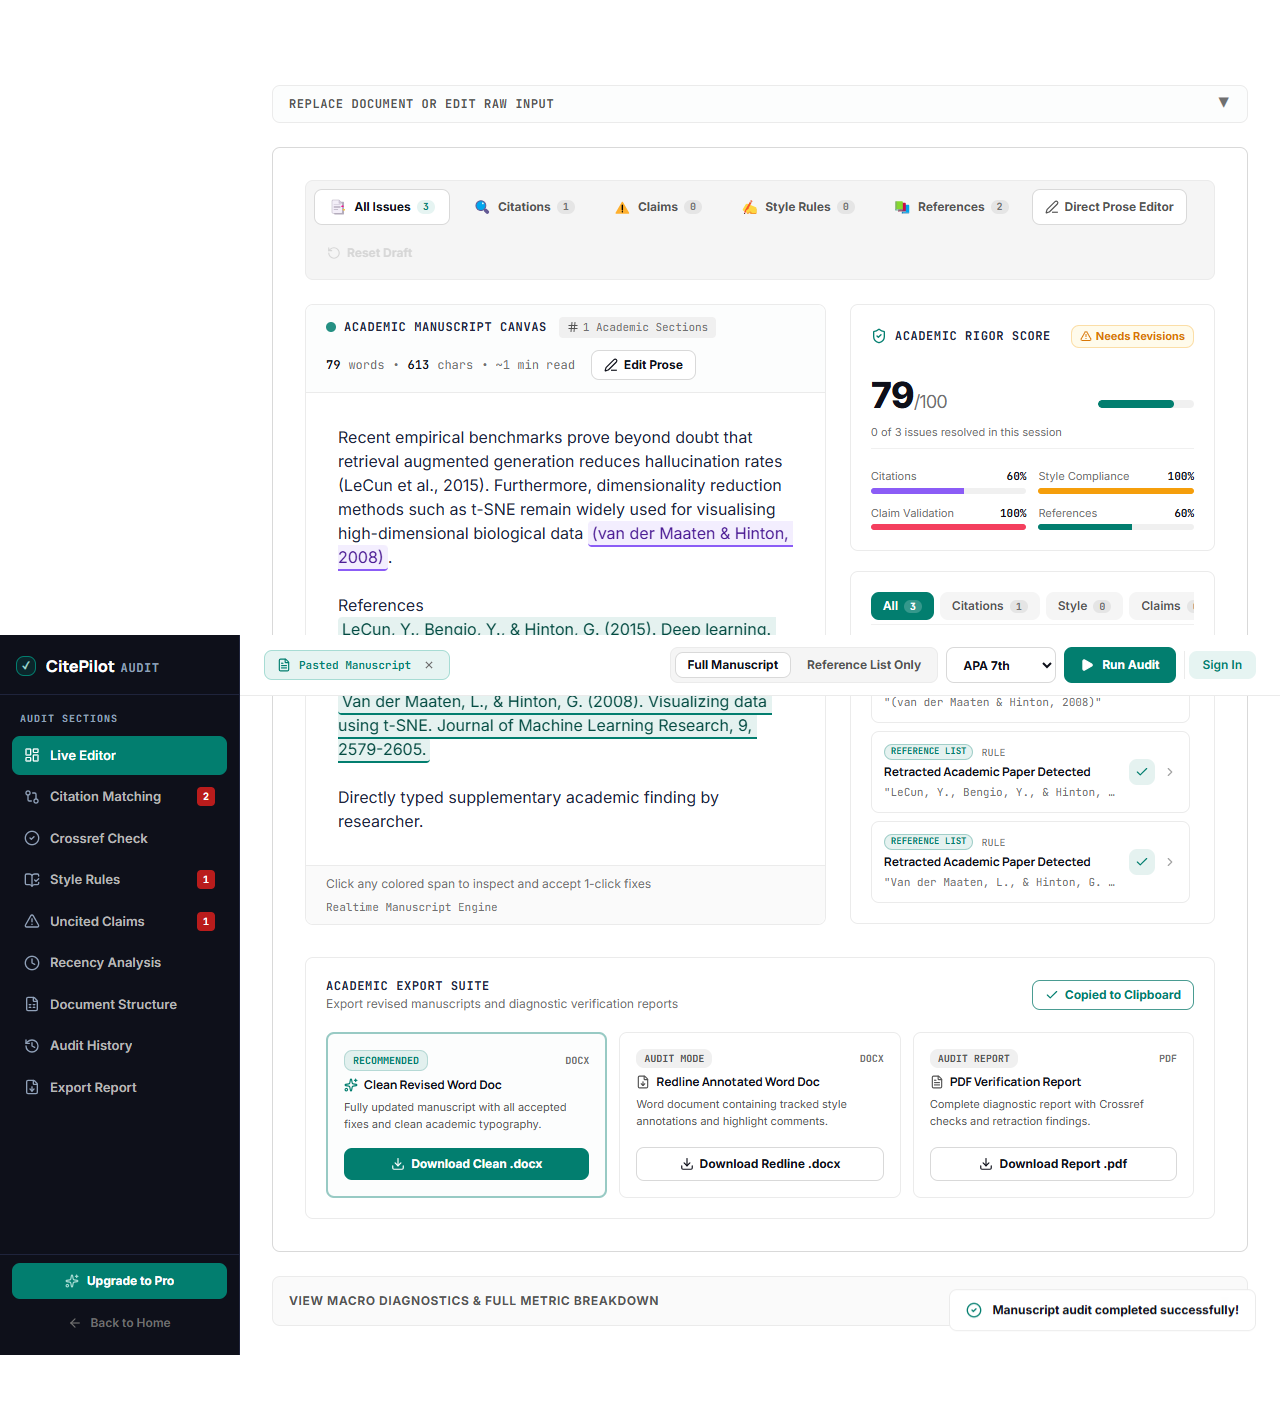
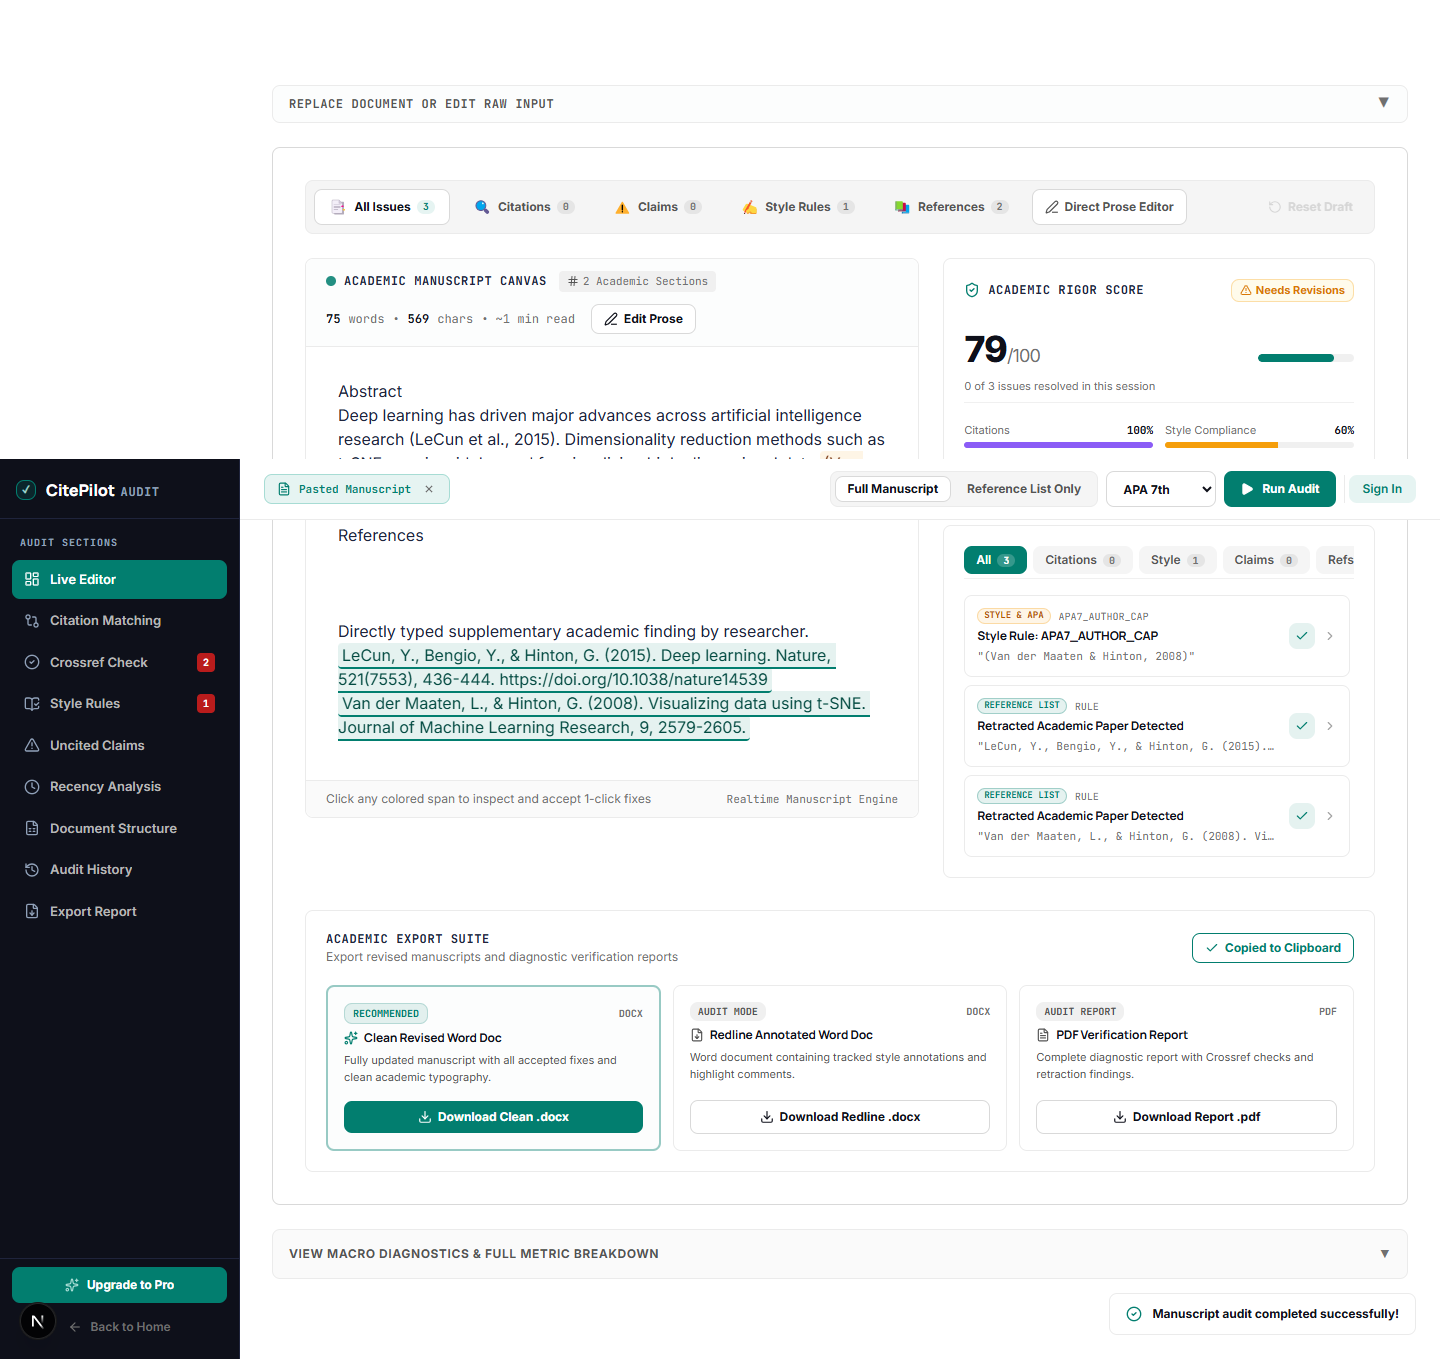
refactor(editor): remove fallback textarea and enforce pure Lexical rich-text editing

diff --git a/citepilot-web/src/components/dashboard/editor/DocumentEditorCanvas.tsx b/citepilot-web/src/components/dashboard/editor/DocumentEditorCanvas.tsx
@@ -1,10 +1,10 @@
 "use client";
 
-import React, { useRef } from "react";
+import React from "react";
 import type { TextSegment, DocumentSection } from "@/lib/editor/types";
 import { HighlightSpan } from "./HighlightSpan";
 import { LexicalDocumentCanvas } from "./lexical";
-import { Edit3, Eye, FileText, Sparkles, Hash } from "lucide-react";
+import { Edit3, Eye, Sparkles, Hash } from "lucide-react";
 
 export interface DocumentEditorCanvasProps {
   currentText: string;
@@ -31,7 +31,6 @@ export const DocumentEditorCanvas: React.FC<DocumentEditorCanvasProps> = ({
   onHoverSuggestion,
   className = "",
 }) => {
-  const textareaRef = useRef<HTMLTextAreaElement>(null);
   const words = currentText.trim().split(/\s+/).filter(Boolean).length;
   const chars = currentText.length;
   const readingTimeMinutes = Math.max(1, Math.ceil(words / 225));
@@ -115,24 +114,9 @@ export const DocumentEditorCanvas: React.FC<DocumentEditorCanvasProps> = ({
                   }
                 }}
               />
-              {/* Synchronized accessible textarea ensuring backward-compatibility with testing suites and screen readers */}
-              <label htmlFor="direct-manuscript-editor" className="sr-only">
-                Direct Manuscript Text Editor
-              </label>
-              <textarea
-                id="direct-manuscript-editor"
-                ref={textareaRef}
-                data-testid="direct-manuscript-textarea"
-                value={currentText}
-                onChange={(e) => onUpdateText(e.target.value)}
-                placeholder="Write or edit academic prose directly... E.g. '(Smith et al., 2021) demonstrated that...'"
-                className="sr-only"
-                aria-hidden="true"
-                tabIndex={-1}
-              />
             </div>
 
-            {/* Live Highlight Preview Underneath Textarea */}
+            {/* Live Highlight Preview Underneath Lexical Canvas */}
             <div className="p-4 bg-[#fcfdfd] border border-[#ebebeb] rounded-lg space-y-2">
               <div className="flex items-center justify-between text-[11px] font-mono font-bold uppercase tracking-wider text-[#707070]">
                 <span>Live Audit Preview (Click any highlight):</span>

diff --git a/citepilot-web/src/components/dashboard/editor/__tests__/ManuscriptEditorWorkspace.test.tsx b/citepilot-web/src/components/dashboard/editor/__tests__/ManuscriptEditorWorkspace.test.tsx
@@ -159,7 +159,7 @@ Vaswani, A. et al. (2017). Attention is all you need. NeurIPS.`;
     }
   });
 
-  it("toggles to direct prose editing mode and accepts typing", () => {
+  it("toggles to direct prose editing mode with pure Lexical canvas", () => {
     const handleTextChange = vi.fn();
 
     render(
@@ -173,12 +173,12 @@ Vaswani, A. et al. (2017). Attention is all you need. NeurIPS.`;
     const toggleBtn = screen.getByTestId("workspace-toggle-edit-mode-btn");
     fireEvent.click(toggleBtn);
 
-    // Textarea from DocumentEditorCanvas is rendered
-    const textarea = screen.getByTestId("direct-manuscript-textarea");
-    expect(textarea).toBeInTheDocument();
-
-    fireEvent.change(textarea, { target: { value: "New manual paragraph typed by researcher." } });
-    expect(handleTextChange).toHaveBeenCalledWith("New manual paragraph typed by researcher.");
+    // Lexical document canvas and contenteditable surface are rendered (pure Lexical, no textarea fallback)
+    expect(screen.getByTestId("lexical-document-canvas")).toBeInTheDocument();
+    const contentEditable = screen.getByTestId("lexical-content-editable");
+    expect(contentEditable).toBeInTheDocument();
+    expect(screen.queryByTestId("direct-manuscript-textarea")).not.toBeInTheDocument();
+    expect(contentEditable).toHaveTextContent(/Large language models require rigorous citation verification/i);
   });
 
   it("triggers clean docx, redline docx, and copy manuscript exports", async () => {

diff --git a/citepilot-web/src/lib/api.ts b/citepilot-web/src/lib/api.ts
@@ -4,13 +4,6 @@ function getApiBase(): string {
   if (process.env.NEXT_PUBLIC_API_URL) {
     return process.env.NEXT_PUBLIC_API_URL.replace(/\/$/, "");
   }
-  if (
-    typeof window !== "undefined" &&
-    (window.location.hostname === "localhost" ||
-      window.location.hostname === "127.0.0.1")
-  ) {
-    return "http://localhost:8000/api/v1";
-  }
   return typeof window !== "undefined"
     ? `${window.location.origin}/api/v1`
     : "http://localhost:8000/api/v1";

diff --git a/citepilot-web/src/components/dashboard/Topbar.tsx b/citepilot-web/src/components/dashboard/Topbar.tsx
@@ -140,6 +140,7 @@ export default function Topbar({
 
 
           <button
+            data-testid="run-audit-btn"
             className="flex items-center gap-2 h-9 px-4 bg-[#027e6f] hover:bg-[#02665a] text-white font-bold text-xs rounded-lg shadow-none transition-all cursor-pointer disabled:opacity-60"
             onClick={onRunAudit}
             disabled={progress.visible}

diff --git a/citepilot-web/src/lib/supabase/middleware.ts b/citepilot-web/src/lib/supabase/middleware.ts
@@ -28,7 +28,9 @@ export async function updateSession(request: NextRequest) {
   // supabase.auth.getUser(). A simple mistake could make it very hard to debug
   // issues with users being randomly logged out.
 
-  await supabase.auth.getUser();
+  if (!supabaseUrl.includes("mock-project")) {
+    await supabase.auth.getUser();
+  }
 
   return supabaseResponse;
 }

diff --git a/citepilot-web/src/components/dashboard/InputArea.tsx b/citepilot-web/src/components/dashboard/InputArea.tsx
@@ -68,6 +68,7 @@ export default function InputArea({
         </h2>
         <button
           type="button"
+          data-testid="load-sample-btn"
           onClick={handleLoadSample}
           className="text-xs font-bold text-[#027e6f] hover:text-[#02665a] flex items-center gap-1.5 transition-colors cursor-pointer"
         >
